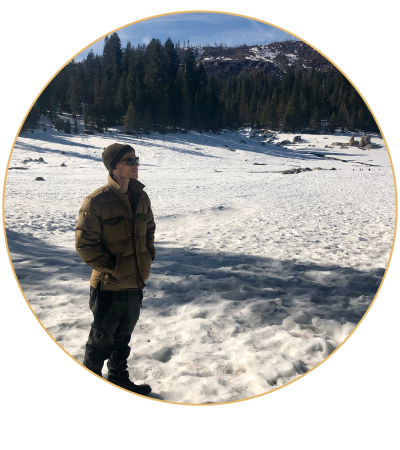
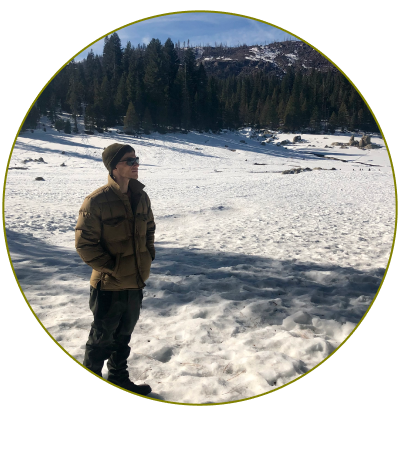
Finished

diff --git a/css/style.css b/css/style.css
@@ -9,8 +9,8 @@
 
 html {
     scroll-behavior: smooth;
-font-size: 10px;
-font-family: 'Poppins', sans-serif;
+    font-size: 10px;
+    font-family: 'Poppins', sans-serif;
 }
 
 a{
@@ -20,10 +20,11 @@ a{
 .section-title{
     font-size: 3.5rem;
     font-weight: 500;
-    color: black;
+    color: #29323c;
     margin-bottom: 0.625rem;
     letter-spacing: .2rem;
     text-align: center;
+    font-weight: 700;
 }
 
 /* Navigation */
@@ -104,7 +105,7 @@ a{
 }
 
 .nav-list ul li:hover a{
-    color: crimson;
+    color: olive;
 }
 
 .hamburger{
@@ -170,7 +171,7 @@ a{
 }
 
 .brand h1{
-    color: #941414;
+    color: goldenrod;
     font-size: 30px;
     margin-left: 20px;
 }
@@ -256,7 +257,7 @@ a{
     left: 0;
     height: 100%;
     width: 0;
-    background-color: crimson;
+    background-color: olive;
     animation: text_reveal_box 1s ease;
     animation-delay: 1s;
     /* border-radius: 5px; */
@@ -277,9 +278,9 @@ a{
 .cta{
     display: inline-block;
     padding: 10px 30px;
-    color: crimson;
+    color: goldenrod;
     background-color: transparent;
-    border: 2px solid crimson;
+    border: 2px solid goldenrod;
     font-size: 2rem;
     letter-spacing: .1rem;
     margin-top: 30px;
@@ -289,8 +290,8 @@ a{
 }
 
 .cta:hover{
-    color: white;
-    background-color: crimson;
+    color: antiquewhite;
+    background-color: olive;
 }
 
 /* Keyframes */
@@ -308,13 +309,13 @@ a{
 
 @keyframes text_reveal{
     100%{
-        color: white;
+        color: antiquewhite;
     }
 }
 
 @keyframes text_reveal_name{
     100%{
-        color: crimson;
+        color: olive;
         /* font-weight: 500; */
     }
 }
@@ -355,6 +356,7 @@ letter-spacing: .05rem;
     flex-wrap: wrap;
     margin-top: 3.125rem;
 }
+
 
 .service-item{
     flex-basis: 80%;
@@ -450,6 +452,7 @@ margin-bottom: 0.625rem;
     justify-content: center;
     flex-direction: column;
     width: 80%;
+    gap: 20px;
 }
 
 .project-item{
@@ -467,6 +470,7 @@ margin-bottom: 0.625rem;
     padding: 30px;
     flex-basis: 50%;
     height: 100%;
+    width: 100%;
     display: flex;
     align-items: flex-start;
     justify-content: center;
@@ -475,6 +479,10 @@ margin-bottom: 0.625rem;
     color: antiquewhite;
     z-index: 1;
     font-size: 12px;
+}
+
+.project-info h1 h3 p{
+    text-align: center;
 }
 
 .project-img{
@@ -487,6 +495,11 @@ margin-bottom: 0.625rem;
 .project-img:hover{
 transform: scale(1.1);
 }
+
+/* .project-img img{
+width: 100%;
+height: 100%;
+} */
 
 /* Projects End */
 
@@ -515,9 +528,9 @@ transform: scale(1.1);
     width: 100%;
 }
 
-.col-right h1{
-    color: antiquewhite;
-}
+/* .col-right h1{
+    color: olive;
+} */
 
 .col-right h2{
     color: antiquewhite;
@@ -527,14 +540,24 @@ transform: scale(1.1);
     margin-bottom: .625rem;
 }
 
+
 .col-right p{
+    font-size: 1.25rem;
     margin-bottom: 1rem;
 }
 
 .col-right .cta{
-    color: antiquewhite;
+    color: olive;
+    border: olive;
     margin-bottom: 4rem;
     font-size: 1.25rem;
+    background-color: transparent;
+    border: 2px solid olive;
+}
+
+.col-right .cta:hover{
+    color: goldenrod;
+    background-color: #808000;
 }
 
 .col-left .about-img{
@@ -587,15 +610,19 @@ transform: scale(1.1);
 }
 
 .contact-item:hover{
-    box-shadow: 0px 0px 3px 0 crimson;
+    box-shadow: 1px 1px 13px 0 goldenrod;
+}
+
+.contact-info p{
+    font-size: 14px;
 }
 
 .contact-info a{
-    color: crimson;
+    color: goldenrod;
 }
 
 .contact-info a:hover{
-    color: rgb(135, 14, 38);
+    color: olive;
     }
 
 /* Contact End */
@@ -635,6 +662,7 @@ transform: scale(1.1);
     justify-content: center;
     align-items: center;
     margin-bottom: 30px;
+    margin-left: 20px;
 }
 
 .social{
@@ -723,6 +751,11 @@ transform: scale(1.1);
         flex-basis: 40%;
     }
 
+    .project-info p{
+        margin-top: 10px;
+        font-size: 1.25rem;
+    }
+
     .all-projects .project-img{
         flex-basis: 125%;
         width: 100%;
@@ -786,8 +819,9 @@ transform: scale(1.1);
     /* Navigation */
 
     .brand h1{
-        font-size: 26px;
+        font-size: 28px;
     }
+
     .foot-brand{
     color: antiquewhite;
     font-size: 14px;

diff --git a/index.html b/index.html
@@ -134,18 +134,34 @@
             <div class="project-item">
                 <div class="project-info">
                     <h1>Raven Ink Tattoo</h1>
-                    <p>Lorem ipsum dolor sit amet consectetur adipisicing elit. Provident inventore necessitatibus rem asperiores aperiam nisi, eligendi cum deleniti quam fugiat, iusto doloribus iste praesentium alias perspiciatis ipsa excepturi, beatae animi.</p>
+                    <br>
+                    <h3>Role:</h3>
+                    <p>Front End Development</p>
+                    <br>
+                    <h3>Tools:</h3>
+                    <p>VS Code / Figma</p>
+                    <br>
+                    <h3>Year:</h3>
+                    <p>2022</p>
                 </div>
 
                 <div class="project-img">
-                    <a href="#jumbo"><img src="./images/ink-logo.png" alt="Raven Ink Logo"></a>
+                    <a href="https://kyle-shackelford.github.io/ravenink-respon/"><img src="./images/ink-logo.png" alt="Raven Ink Logo"></a>
                 </div>
             </div>
 
             <div class="project-item">
                 <div class="project-info">
                     <h1>ABC Sushi</h1>
-                    <p>Lorem ipsum dolor sit amet consectetur adipisicing elit. Provident inventore necessitatibus rem asperiores aperiam nisi, eligendi cum deleniti quam fugiat, iusto doloribus iste praesentium alias perspiciatis ipsa excepturi, beatae animi.</p>
+                    <br>
+                    <h3>Role:</h3>
+                    <p>Ux Design / UX Research</p>
+                    <br>
+                    <h3>Tools:</h3>
+                    <p>Figma / Adobe XD</p>
+                    <br>
+                    <h3>Year:</h3>
+                    <p>2021</p>
                 </div>
 
                 <div class="project-img">
@@ -200,7 +216,7 @@
                 <div class="icon"><i class="fa-solid fa-phone"></i></div>
                 <div class="contact-info">
                     <h1>Phone Number:</h1>
-                    <h2>555-555-5555</h2>
+                    <p>555-555-5555</p>
                 </div>
             </div>
         
@@ -208,7 +224,7 @@
                 <div class="icon"><i class="fa-solid fa-envelope"></i></div>
                 <div class="contact-info">
                     <h1>Email:</h1>
-                    <h3>kyleshackelford7<br>@gmail.com</h3>
+                    <p>kyleshackelford7<br>@gmail.com</p>
                 </div>
             </div>
 
@@ -217,7 +233,7 @@
                 <div class="contact-info">
                     <h1>Social Media:</h1>
                     <h2> <a href="https://dribbble.com/shots/19511919-ABC-Sushi-Customization-App">Dribbble</a></h2>
-                    <h2> <a href="https://dribbble.com/shots/19511919-ABC-Sushi-Customization-App">Behance</a></h2>
+                    <h2> <a href="https://www.behance.net/">Behance</a></h2>
                 </div>
             </div>
         </div>
@@ -240,16 +256,16 @@
 
     <div class="social-icons">
     <div class="social">
-        <a href="#"><i class="fa-brands fa-facebook"></i></a>
+        <a href="https://www.facebook.com/"><i class="fa-brands fa-facebook"></i></a>
     </div>
     <div class="social">
-        <a href="#"><i class="fa-brands fa-square-twitter"></i></a>
+        <a href="https://twitter.com/?lang=en"><i class="fa-brands fa-square-twitter"></i></a>
     </div>
     <div class="social">
-        <a href="#"><i class="fa-brands fa-linkedin"></i></a>
+        <a href="https://www.linkedin.com/"><i class="fa-brands fa-linkedin"></i></a>
     </div>
     <div class="social">
-        <a href="#"><i class="fa-brands fa-google"></i></a>
+        <a href="https://www.behance.net/"><i class="fa-brands fa-square-behance"></i></a>
     </div>
 </div>
 <p>© 2022 Kyle Shackelford</p>
